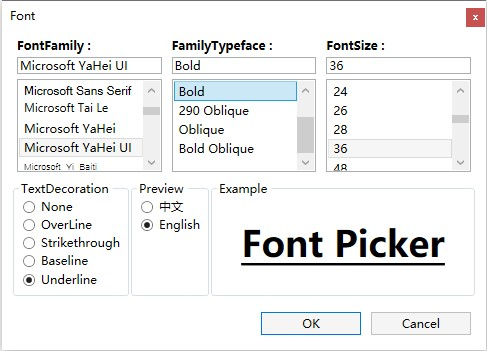
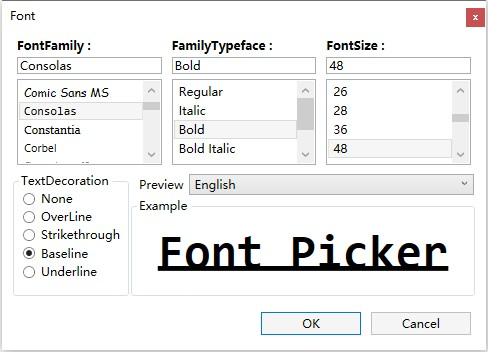
Fix the bug that some parts are not updated after the assignment

diff --git a/DemoNETCore/MainWindow.xaml b/DemoNETCore/MainWindow.xaml
@@ -51,7 +51,7 @@
                         </Grid.RowDefinitions>
                         <CheckBox x:Name="ColorCellsCheck" Content="WithoutColorCells" Margin="10"/>
                         <Label Background="{Binding ElementName=colorPicker,Path=SelectedColor,Converter={StaticResource ColorToBrushConverter}}" Margin="10"  Grid.Row="1"/>
-                        <cf:ColorPickerControl x:Name="colorPicker" Grid.Row="2" Width="auto" Height="auto" SelectedColor="Blue" WithoutColorCells="{Binding ElementName=ColorCellsCheck,Path=IsChecked}"/>
+                        <cf:ColorPickerControl x:Name="colorPicker" Grid.Row="2" Width="auto" Height="auto" WithoutColorCells="{Binding ElementName=ColorCellsCheck,Path=IsChecked}"/>
                     </Grid>
                 </GroupBox>
                 <GroupBox Header="FontPickerControl" Grid.Column="1">
@@ -79,5 +79,6 @@
                 </GroupBox>
             </Grid>
         </GroupBox>
+        <Button Content="SetDefault" Grid.Row="1" HorizontalAlignment="Right" VerticalAlignment="Top" Click="Button_Click"/>
     </Grid>
 </Window>

diff --git a/DemoNETFramework/MainWindow.xaml b/DemoNETFramework/MainWindow.xaml
@@ -79,6 +79,7 @@
                 </GroupBox>
             </Grid>
         </GroupBox>
+        <Button Content="SetDefault" Grid.Row="1" HorizontalAlignment="Right" VerticalAlignment="Top" Click="Button_Click"/>
     </Grid>
 </Window>
 

diff --git a/ColorFontPickerWPF/ColorPickerControl.xaml.cs b/ColorFontPickerWPF/ColorPickerControl.xaml.cs
@@ -25,7 +25,18 @@ namespace ColorFontPickerWPF
         public Color SelectedColor
         {
             get { return (Color)GetValue(SelectedColorProperty); }
-            set { SetValue(SelectedColorProperty, value); }
+            set
+            {
+                SetValue(SelectedColorProperty, value);
+                if (changing) return;
+                changing = true;
+                try
+                {
+                    ApplyChangeToText(ColorFormat.None);
+                }
+                catch { }
+                changing = false;
+            }
         }
         public static readonly DependencyProperty SelectedColorProperty = DependencyProperty.Register("SelectedColor", typeof(Color), typeof(ColorPickerControl), new PropertyMetadata(null));
 
@@ -37,28 +48,28 @@ namespace ColorFontPickerWPF
         public static readonly DependencyProperty WithoutColorCellsProperty = DependencyProperty.Register("WithoutColorCells", typeof(bool), typeof(ColorPickerControl), new PropertyMetadata(null));
 
 
-       /* public SupportedLanguage UILanguage
-        {
-            get { return (SupportedLanguage)GetValue(UILanguageProperty); }
-            set{SetValue(UILanguageProperty, value);}
-        }
-        public static readonly DependencyProperty UILanguageProperty = DependencyProperty.Register("UILanguage", typeof(SupportedLanguage), typeof(ColorPickerControl), new FrameworkPropertyMetadata(0,new PropertyChangedCallback(UILanguagePropertyChanged)));
+        /* public SupportedLanguage UILanguage
+         {
+             get { return (SupportedLanguage)GetValue(UILanguageProperty); }
+             set{SetValue(UILanguageProperty, value);}
+         }
+         public static readonly DependencyProperty UILanguageProperty = DependencyProperty.Register("UILanguage", typeof(SupportedLanguage), typeof(ColorPickerControl), new FrameworkPropertyMetadata(0,new PropertyChangedCallback(UILanguagePropertyChanged)));
 
-        private static void UILanguagePropertyChanged(DependencyObject d, DependencyPropertyChangedEventArgs e)
-        {
-            switch (e.NewValue)
-            {
-                case SupportedLanguage.Auto:
-                    LanguageManager.SwitchLanguage(System.Threading.Thread.CurrentThread.CurrentUICulture.Name);
-                    break;
-                case SupportedLanguage.Chinese:
-                    LanguageManager.SwitchLanguage("zh-CN");
-                    break;
-                case SupportedLanguage.English:
-                    LanguageManager.SwitchLanguage("en-US");
-                    break;
-            }
-        }*/
+         private static void UILanguagePropertyChanged(DependencyObject d, DependencyPropertyChangedEventArgs e)
+         {
+             switch (e.NewValue)
+             {
+                 case SupportedLanguage.Auto:
+                     LanguageManager.SwitchLanguage(System.Threading.Thread.CurrentThread.CurrentUICulture.Name);
+                     break;
+                 case SupportedLanguage.Chinese:
+                     LanguageManager.SwitchLanguage("zh-CN");
+                     break;
+                 case SupportedLanguage.English:
+                     LanguageManager.SwitchLanguage("en-US");
+                     break;
+             }
+         }*/
 
         bool changing = false;
         bool loaded = false;
@@ -98,20 +109,25 @@ namespace ColorFontPickerWPF
         {
             if (e.LeftButton == MouseButtonState.Pressed)
             {
-                var grid = (Grid)sender;
-                Point position = e.GetPosition(grid);
-
-                HSL hsl = new RGB(SelectedColor.R, SelectedColor.G, SelectedColor.B).ToHSL();
-                hsl.H = (int)Math.Round(position.X / grid.ActualWidth * 360);
-                hsl.S = (int)Math.Round((1 - position.Y / grid.ActualHeight) * 100);
-                HSLH.Text = hsl.H.ToString();
-                HSLS.Text = hsl.S.ToString();
-                RGB rgb = hsl.ToRGB();
-                SelectedColor = rgb.ToColor();
-
-                PickerPath.Margin = new Thickness(position.X - 5, position.Y - 5, 0, 0);
+                if (changing) return;
                 changing = true;
-                ApplyChangeToText(ColorFormat.Picker);
+                try
+                {
+                    var grid = (Grid)sender;
+                    Point position = e.GetPosition(grid);
+
+                    HSL hsl = new RGB(SelectedColor.R, SelectedColor.G, SelectedColor.B).ToHSL();
+                    hsl.H = (int)Math.Round(position.X / grid.ActualWidth * 360);
+                    hsl.S = (int)Math.Round((1 - position.Y / grid.ActualHeight) * 100);
+                    HSLH.Text = hsl.H.ToString();
+                    HSLS.Text = hsl.S.ToString();
+                    RGB rgb = hsl.ToRGB();
+                    SelectedColor = rgb.ToColor();
+
+                    PickerPath.Margin = new Thickness(position.X - 5, position.Y - 5, 0, 0);
+                    ApplyChangeToText(ColorFormat.Picker);
+                }
+                catch { }
                 changing = false;
             }
         }
@@ -127,15 +143,29 @@ namespace ColorFontPickerWPF
             screenPickerWindow.ShowDialog();
             if (screenPickerWindow.pickColor != Colors.Transparent)
             {
-                SelectedColor = screenPickerWindow.pickColor;
-                ApplyChangeToText(ColorFormat.None);
+                if (changing) return;
+                changing = true;
+                try
+                {
+                    SelectedColor = screenPickerWindow.pickColor;
+                    ApplyChangeToText(ColorFormat.None);
+                }
+                catch { }
+                changing = false;
             }
         }
         private void ColorButton_Click(object sender, RoutedEventArgs e)
         {
-            Button button = sender as Button;
-            SelectedColor = (button.Background as SolidColorBrush).Color;
-            ApplyChangeToText(ColorFormat.None);
+            if (changing) return;
+            changing = true;
+            try
+            {
+                Button button = sender as Button;
+                SelectedColor = (button.Background as SolidColorBrush).Color;
+                ApplyChangeToText(ColorFormat.None);
+            }
+            catch { }
+            changing = false;
         }
         private void TextBox_PreviewTextInput(object sender, TextCompositionEventArgs e)
         {

diff --git a/DemoNETCore/MainWindow.xaml.cs b/DemoNETCore/MainWindow.xaml.cs
@@ -25,7 +25,7 @@ namespace DemoNETCore
         public MainWindow()
         {
             InitializeComponent();
-            //PickerLanguageManager.SwitchLanguage(new CultureInfo("de-AT"));
+            //PickerLanguageManager.SwitchLanguage(new CultureInfo("en-US"));
         }
 
         private void ColorDialogButton_Click(object sender, RoutedEventArgs e)
@@ -38,10 +38,20 @@ namespace DemoNETCore
 
         private void FontDialogButton_Click(object sender, RoutedEventArgs e)
         {
-            FontDialog fontDialog = new FontDialog();
+            FontDialog fontDialog = new FontDialog(); 
             fontDialog.GetFont(PreviewTextBlock);
             if (fontDialog.ShowDialog() == true)
                 fontDialog.SetFont(PreviewTextBlock);
+        }
+
+        private void Button_Click(object sender, RoutedEventArgs e)
+        {
+            fontPicker.SelectedFont = new Font
+            {
+                FontFamily = new FontFamily("Microsoft YaHei UI"),
+                FontSize = 48,
+            };
+            colorPicker.SelectedColor = Colors.Blue;
         }
     }
 

diff --git a/ColorFontPickerWPF/FontPickerControl.xaml.cs b/ColorFontPickerWPF/FontPickerControl.xaml.cs
@@ -25,7 +25,9 @@ namespace ColorFontPickerWPF
         public Font SelectedFont
         {
             get { return (Font)GetValue(SelectedFontProperty); }
-            set { SetValue(SelectedFontProperty, value); }
+            set { SetValue(SelectedFontProperty, value);
+                UpdateFontChanged();
+            }
         }
         public static readonly DependencyProperty SelectedFontProperty = DependencyProperty.Register("SelectedFont", typeof(Font), typeof(FontPickerControl), new PropertyMetadata(null));
         public bool WithoutDecorations
@@ -82,6 +84,10 @@ namespace ColorFontPickerWPF
             loaded = true;
             if (SelectedFont == null)
                 SelectedFont = defaultFont;
+
+        }
+        private void UpdateFontChanged()
+        {
             SizeSelector.SelectedItem = fontSizeDic.FirstOrDefault(x => x.Value.Equals(SelectedFont.FontSize));
             if (SizeSelector.SelectedItem == null)
                 SizeTextbox.Text = SelectedFont.FontSize.ToString();

diff --git a/DemoNETFramework/MainWindow.xaml.cs b/DemoNETFramework/MainWindow.xaml.cs
@@ -42,5 +42,14 @@ namespace DemoNETFramework
             if (fontDialog.ShowDialog() == true)
                 fontDialog.SetFont(PreviewTextBlock);
         }
+        private void Button_Click(object sender, RoutedEventArgs e)
+        {
+            fontPicker.SelectedFont = new Font
+            {
+                FontFamily = new FontFamily("Microsoft YaHei UI"),
+                FontSize = 48,
+            };
+            colorPicker.SelectedColor = Colors.Blue;
+        }
     }
 }
